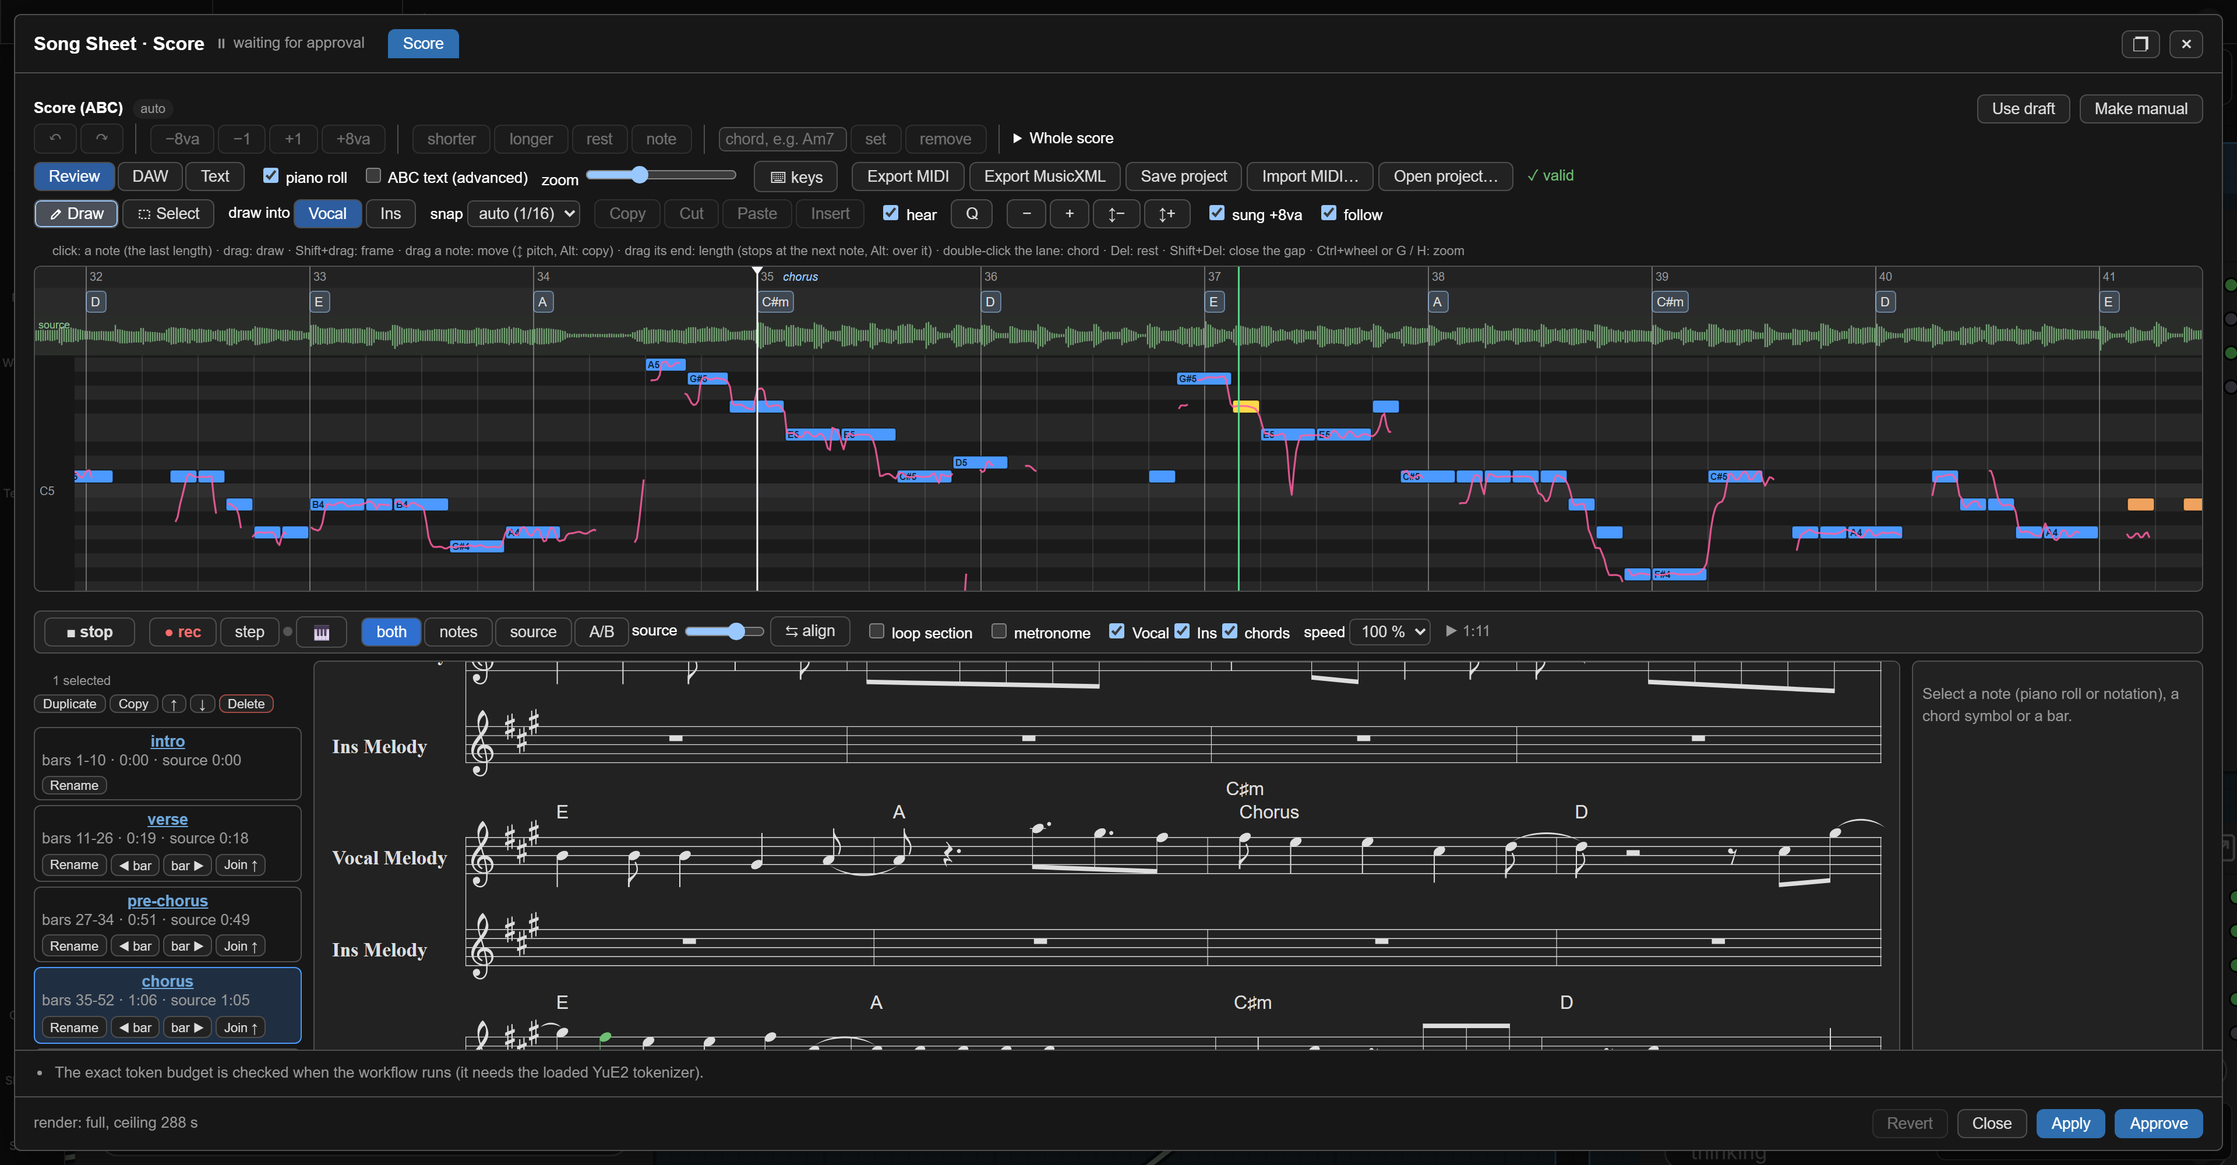
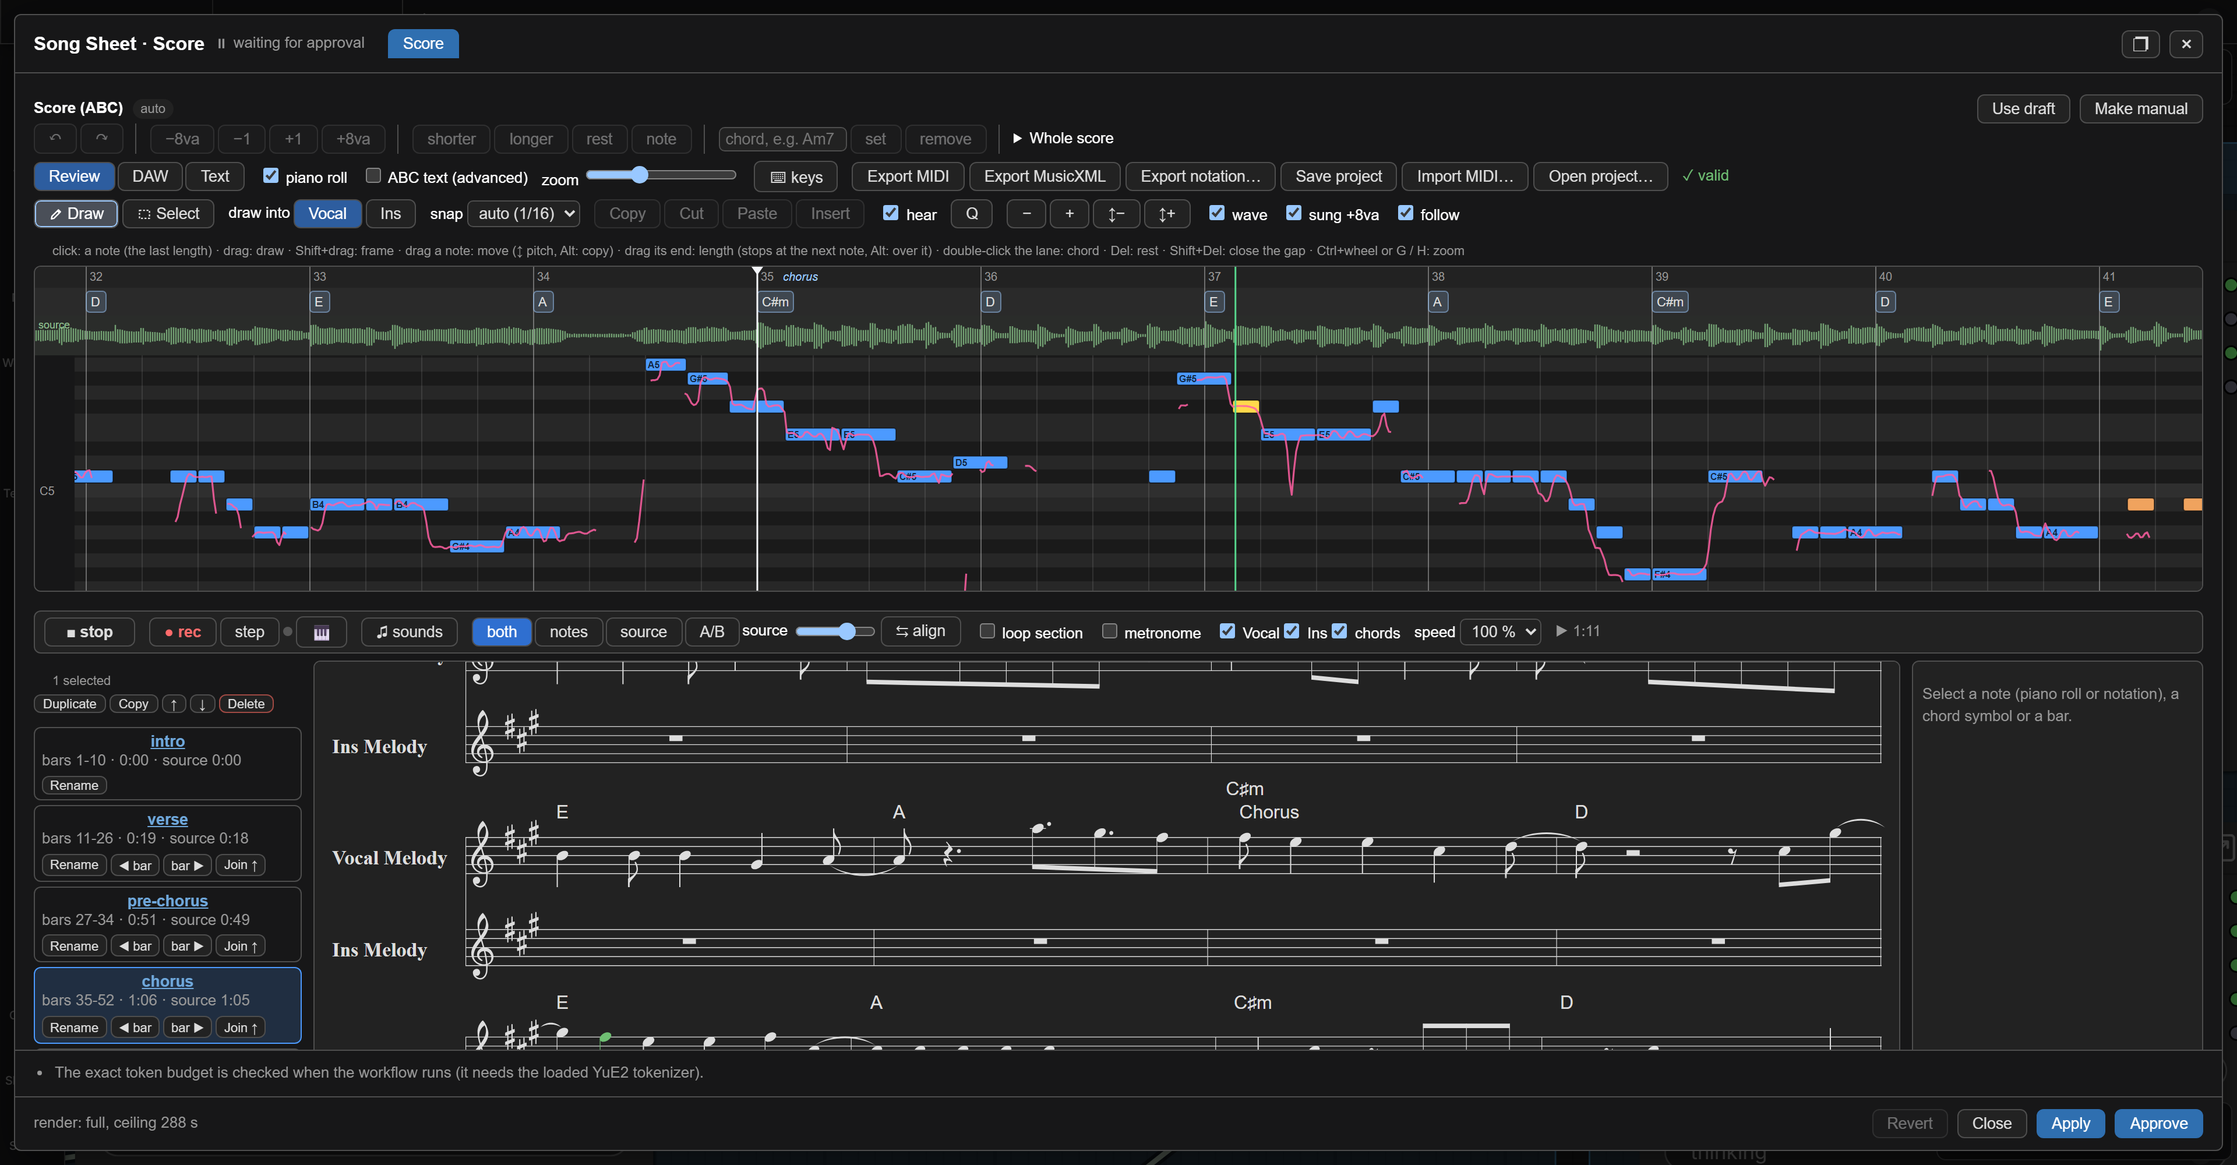
Release 0.4.4
- Version 0.4.4 (pyproject, plenio, frontend; web/ built with it);
  CHANGELOG: the Unreleased entries as 0.4.4 - the score editor as a
  small DAW: the source recording under the notes, Sung Pitch, MIDI
  recording, sounds per track and presets, the notation as PDF/PNG/SVG,
  settings in the project file, the octave-slip warning, the tutorials;
  CURRENT_STATUS row.
- README: new score editor screenshots (DAW layout with the tracks'
  sounds, the sounds and presets, a page of the notation's PDF, a cover
  with waveform and sung pitch, a MIDI recording); the feature list names
  recording, sounds, presets and the export.

Changed region(s): [[0.1562, 0.527, 0.6875, 0.558], [0.5312, 0.124, 0.7188, 0.186]]

diff --git a/web/js/plenio.js b/web/js/plenio.js
@@ -1,6 +1,6 @@
 import "../../../scripts/api.js";
 import "../../../scripts/app.js";
-import { E as p } from "./chunks/main-BrzPbRxM.mjs";
+import { E as p } from "./chunks/main-C9slfJQu.mjs";
 export {
   p as EXTENSION_NAME
 };

diff --git a/plenio/__init__.py b/plenio/__init__.py
@@ -6,4 +6,4 @@ use relative imports only, because ComfyUI imports the custom node folder under
 a path-derived module name.
 """
 
-__version__ = "0.4.3"
+__version__ = "0.4.4"

diff --git a/README.md b/README.md
@@ -72,7 +72,7 @@ Plenio is a rewrite from scratch, not a new version of the toolkit. It keeps wha
 - **One template per music model.** *YuE2 · Song*, *YuE2 · Cover* and *MiniMax · Song* each show only the controls that apply to them. There is no model switch that half the nodes ignore.
 - **Two ways to work, chosen first in the brief.** *New song every run* turns one brief into a whole series: set the number of runs, press Run once, and every run writes and renders a different song. *One song, stop to review* is for the song you want to get right: the run stops at the Song Sheets so you can check and edit the text and the score before anything is rendered, and every later run is a new take of the approved song.
 - **The Song Sheet: what you see is what the model gets.** Every document that conditions the music (title, style or caption, lyrics, score) passes through one sheet. Each document is *automatic*, *edited* or *manual*. Manual text is never replaced. If the draft changes under an edit, the run stops and asks instead of guessing. When a sheet stops for review, nothing is rendered until you approve exactly what you saw.
-- **A real score editor.** YuE2's score is ABC notation, and the Song Sheet opens it as notation, as a **piano roll** and as ABC text, with playback. Draw, move and resize notes, set **chord symbols** in the chord lane, work through the **bar inspector** (bars, meter, key changes), and export or import **MIDI**. Every edit is checked by the same parser the model uses; a malformed text is refused with a reason and can be reverted.
+- **A real score editor.** YuE2's score is ABC notation, and the Song Sheet opens it as notation, as a **piano roll** and as ABC text, with playback. Draw, move and resize notes, set **chord symbols** in the chord lane, work through the **bar inspector** (bars, meter, key changes), and export or import **MIDI**. Play a melody in with a **MIDI keyboard** (record with count-in, or step input), hear every track in a **sound** of its own, set them with **presets** for the kind of song, and export the sheet music as **PDF, PNG or SVG**. Every edit is checked by the same parser the model uses; a malformed text is refused with a reason and can be reverted.
 - **Arrange like in a DAW** (0.4.0; single bars since 0.4.2). Copy, move and delete whole sections in the section list, as on Cubase's arranger track - or single bars in the bar strip under it. A **cursor** in the ruler sets where playback and paste start, and **Ctrl+V** / **Ctrl+Shift+V** paste at it, overwriting or inserting time. The Guide track, the lyrics and, in covers, the original words and the source recording's times follow every arrangement. The **lyrics** stand over the notes they are sung on and are edited right there - since 0.4.3 their lines are also moved, made longer or shorter, copied and pasted like notes, and chord symbols move by semitones with the notes. The sheet music goes out as **MusicXML**, and a **project file** keeps the score, the Guide notes and the lyrics to go on later.
 - **Or write the score yourself.** **5 · YuE2 · DAW** is the song template for composing: an all-rest score is built from the brief, you draw the melody and the chords - play them in with a **MIDI keyboard** or bring a sketch from your DAW with **Import MIDI…** - and YuE2 renders exactly what you approved. The **Guide** track plays with the sheet but is never sent to the model.
 - **Covers from the actual music.** SheetSage2 reads the score out of your recording and keeps its beat grid. faster-whisper transcribes the sung words and places them into the score's sections. You choose *instrumental*, *original lyrics* or *new lyrics* (written to the phrasing of the original), and whether the harmony stays. In the score editor the source recording plays under the notes, bar by bar, and the **sung pitch** is drawn over them, so you hear and see where the transcription is off.
@@ -150,18 +150,25 @@ Open a Song Sheet and choose the score tab. The **piano roll** draws, moves and 
 Since 0.4.0 the editor also arranges. Select sections in the list and duplicate (Ctrl+D), copy, move (Ctrl+↑/↓ or drag; Alt copies) or delete them - and single bars the same way in the bar strip under the sections. Click in the ruler to set the **cursor**: playback starts there, and **Ctrl+V** pastes the clipboard there, overwriting the notes of its voices, while **Ctrl+Shift+V** inserts it and moves what follows. When the song has lyrics, a **lyrics lane** shows every line over the phrase it is sung on: a double-click edits it, and lines are selected, moved, made longer or shorter, deleted, copied and pasted like notes; the notation shows the syllables under the notes. **Export MusicXML** hands the sheet music to MuseScore, Sibelius, Dorico or Cubase, **Export notation…** gives it as PDF, PNG or SVG, **♫ sounds** plays each track in its own sound (piano, strings, pad, voice ... - with presets by kind of song, and your own), and **Save project / Open project…** keeps the score, the Guide notes, the lyrics and these settings in one file. See the [score editor guide](docs/user/concepts/score-editor.md).
 
 <p align="center">
-  <img src="assets/branding/0.4.2/Screenshot%20Score-Editor.png" alt="The Song Sheet's score tab in the DAW layout, playing: an imported sketch in the piano roll with the lyrics lane over the notes, the transport right under the roll, the notation with the syllables, and two bars selected in the bar strip" width="100%" />
+  <img src="assets/branding/0.4.4/Screenshot%20Score-Editor.png" alt="The Song Sheet's score tab in the DAW layout, playing the chorus of an imported sketch: the chord and lyrics lanes over the piano roll, the transport with play, rec, step, the MIDI keyboard and the sounds, the notation with the syllables, and the four tracks with their sounds on the left" width="100%" />
 </p>
 
-*The score tab of a Song Sheet in the DAW layout, playing a sketch brought in with Import MIDI: the lyrics lane over the piano roll (each line over its phrase, each syllable over its note), the chord lane, the **transport** right under the roll, the notation with the syllables under the notes, the files (MIDI, MusicXML, project) - and on the left the sections and the **bar strip** with two bars selected, ready to be duplicated, copied, moved or deleted.*
+*The score tab of a Song Sheet in the DAW layout, playing the chorus of a sketch brought in with Import MIDI: the chord lane and the lyrics lane over the piano roll (each line over its phrase, each syllable over its note), the **transport** right under the roll (play, ● rec and step input with a MIDI keyboard, ♫ sounds, loop, metronome, the voices, speed), the notation with the syllables under the notes, the files (MIDI, MusicXML, the notation as PDF or picture, the project) - and on the left the four **tracks**, each with its sound.*
 
-For a **cover** the source recording is a track of its own, like an audio track under the MIDI in a DAW: its **waveform** runs under the chord and lyrics lanes, **hear: both** plays the notes and the recording together on the transcription's beat grid (**A/B** switches at once), **⇆ align** moves the recording when the beat detection was off, and the new **Sung Pitch** node draws the sung melody as a curve over the notes - so a wrong pitch, an octave off or a missed note shows at a glance. Quantize (Q), vertical zoom and a *follow* switch round off the roll; **⌨ keys** lists every key and gesture.
+Every track plays in a sound of its own - piano, electric piano, strings, pad, organ, flute, a sung “ah”, pluck, synth lead, bass, mallets - synthesized in the browser, so nothing is downloaded. **Presets** set the sounds and the basic settings for a kind of song (pop, ballad, rock, electronic, acoustic, jazz, orchestral) or a way of working (composing with a MIDI keyboard, checking a cover's transcription, a free cover arrangement); **save current as preset…** keeps your own in ComfyUI, for every song. **Export notation…** gives the sheet music as a PDF on A4 or Letter pages, as a PNG or SVG picture, or prints it.
+
+| | |
+|:---:|:---:|
+| <img src="assets/branding/0.4.4/Screenshot%20Sounds.png" alt="The sounds panel over the transport: the preset Pop chosen, and Vocal in Voice ah, Instrument in Pluck, Chords in Pad and Guide in Bass, each with a play button to hear it" width="100%" /> | <img src="assets/branding/0.4.4/Screenshot%20Notation-PDF.png" alt="Page 1 of the notation exported as PDF: the title Open Window, the tempo, chord symbols and sections over the Vocal and Ins staves, the lyrics under the Vocal notes, and the page number 1 / 2" width="62%" /> |
+| *♫ sounds: a preset for the kind of song, a sound per track, ▶ to hear it* | *Export notation… → PDF: the first page of the sketch's sheet music* |
+
+For a **cover** the source recording is a track of its own, like an audio track under the MIDI in a DAW: its **waveform** runs under the chord and lyrics lanes, **hear: both** plays the notes and the recording together on the transcription's beat grid (**A/B** switches at once), **⇆ align** moves the recording when the beat detection was off, and the **Sung Pitch** node draws the sung melody as a curve over the notes - so a wrong pitch, an octave off or a missed note shows at a glance. Quantize (Q), vertical zoom and a *follow* switch round off the roll; **⌨ keys** lists every key and gesture.
 
 <p align="center">
   <img src="assets/branding/0.4.4/Screenshot%20Cover-Score-Editor.png" alt="The score editor of a cover, playing the chorus: the source's waveform in a lane over the piano roll, the sung pitch as a pink curve over the transcribed vocal notes, and the transport with hear both, notes, source, A/B and align" width="100%" />
 </p>
 
-*A cover's chorus playing in Song Sheet · Score: the source recording's waveform over the roll, the sung pitch (pink) over the transcribed notes - here an octave lower in the singing, so the curve is drawn in the notes' octave (*sung +8va*) - and the transport with **hear: both**, **A/B** and **⇆ align**.*
+*A cover's chorus playing in Song Sheet · Score: the source recording's waveform over the roll, the sung pitch (pink) over the transcribed notes - here an octave lower in the singing, so the curve is drawn in the notes' octave (*sung +8va*) - and the transport with **hear: both**, **A/B** and **⇆ align**. *wave* and *sung* in the roll's toolbar hide both for a cover that goes far from the original.*
 
 ### Compose a song yourself (YuE2 · DAW)
 

diff --git a/docs/design/CURRENT_STATUS.md b/docs/design/CURRENT_STATUS.md
@@ -3,7 +3,7 @@
 | | |
 |---|---|
 | Date | 2026-09-29 (phase checkpoint); releases since: see the next row |
-| Since 0.3.0 | **0.3.1** (2026-10-01, `79c453b`..`93aea8c`): instrumental songs keep their length and get a planner-only song form; study E6 measured it on the GPU (`09b255d`, [report](../test-reports/2026-10-01-e6.md)). **0.4.0** (2026-10-02, `e9907b1`..release commit): the score editor as an arranging tool - sections copied/moved/deleted, cursor, clipboard at the cursor, the Guide track, the text sheet's lyrics and a cover's original words follow; lyrics shown and edited where they are sung; MusicXML export; project file ([score-arrange-design.md](score-arrange-design.md)). **0.4.1** (2026-10-02, after `c8411da`): narrated video tutorials for all six templates and a promo (`tools/tutorials`: narration, OmniVoice voice-over, a folder per video), and fixes found while recording them - Stems with beartype installed, the lyrics after Import MIDI / Open project, System Check tables, the approved node's summary. **0.4.2** (2026-10-02, after `68eefbb`): single bars arranged in the bar strip (duplicate, copy, move, delete; the Guide track and the lyrics follow), the transport between the roll and the notation; the tutorials 1, 2 and 5 recorded again with both (the published videos stay). **0.4.3** (2026-10-03, after `9e4db4b`): lyrics lines placed by hand in the roll's lyrics lane (spans kept as `plenio_lyric_spans`, the backend layout places pinned sections by them), chord symbols transposed with the notes, the cover template's defaults and its *Use template choices*; tutorials 1 and 2 with five lines voiced again (the published videos stay) |
+| Since 0.3.0 | **0.3.1** (2026-10-01, `79c453b`..`93aea8c`): instrumental songs keep their length and get a planner-only song form; study E6 measured it on the GPU (`09b255d`, [report](../test-reports/2026-10-01-e6.md)). **0.4.0** (2026-10-02, `e9907b1`..release commit): the score editor as an arranging tool - sections copied/moved/deleted, cursor, clipboard at the cursor, the Guide track, the text sheet's lyrics and a cover's original words follow; lyrics shown and edited where they are sung; MusicXML export; project file ([score-arrange-design.md](score-arrange-design.md)). **0.4.1** (2026-10-02, after `c8411da`): narrated video tutorials for all six templates and a promo (`tools/tutorials`: narration, OmniVoice voice-over, a folder per video), and fixes found while recording them - Stems with beartype installed, the lyrics after Import MIDI / Open project, System Check tables, the approved node's summary. **0.4.2** (2026-10-02, after `68eefbb`): single bars arranged in the bar strip (duplicate, copy, move, delete; the Guide track and the lyrics follow), the transport between the roll and the notation; the tutorials 1, 2 and 5 recorded again with both (the published videos stay). **0.4.3** (2026-10-03, after `9e4db4b`): lyrics lines placed by hand in the roll's lyrics lane (spans kept as `plenio_lyric_spans`, the backend layout places pinned sections by them), chord symbols transposed with the notes, the cover template's defaults and its *Use template choices*; tutorials 1 and 2 with five lines voiced again (the published videos stay). **0.4.4** (2026-10-03, after `e25a8cf`): the score editor as a small DAW - the source recording as a track under the notes (waveform, *hear*, A/B, ⇆ align), the node **Sung Pitch** (19 nodes), DAW habits in the roll (quantize, zoom, follow, Alt-copy, keys list), recording with a MIDI keyboard (rec with count-in, step input), synthesized sounds per track with presets in ComfyUI's user data, the notation as PDF/PNG/SVG, settings in the project file, the octave-slip warning ([score-editor-sounds-export.md](score-editor-sounds-export.md)); tutorials 1, 2 and 5 recorded again with a tour of the editor (the published videos need a new upload) |
 | Written for | **Phase 11C**: the milestones M1-M7 of the next-release plan - **all done**, reviewed (2026-09-29) and 0.3.0 is prepared for release; next: the owner's L1-L4 verdicts, then the release (tag, Registry publish) |
 | Overall phase | **Phase 11A (design), Phase 11B (critical implementation, O1-O7) and M1-M7 done** (score editor, YuE2 · DAW, brief templates + manual lyrics, EQ UX, Refine + UniverSR, Stems + BS-RoFormer, docs + version 0.3.0); L1/L2 ran with the real weights (numbers below), the listening verdicts are open; 0.2.2 is the released baseline; the Phase 10 owner-machine checks (§8.3) are still open |
 | Sub-phase | - (hard stop after Phase 11B) |

diff --git a/CHANGELOG.md b/CHANGELOG.md
@@ -2,7 +2,9 @@
 
 All notable changes are listed here. Versions follow semantic versioning; published Registry versions are immutable.
 
-## Unreleased
+## 0.4.4 - 2026-10-03
+
+The score editor plays like a small DAW: record a melody with a MIDI keyboard, hear every track in a sound of its own, export the sheet music as PDF - and for covers, the original recording and the sung pitch right under the notes.
 
 ### Added
 
@@ -21,10 +23,11 @@ All notable changes are listed here. Versions follow semantic versioning; publis
 - **Presets** of the basic settings: built in by kind of song (Pop, Ballad, Rock, Electronic, Acoustic, Jazz, Orchestral ...) and way of working (*Composing with a MIDI keyboard*, *Cover: check the transcription*, *Cover: free arrangement*); **save current as preset…** keeps your own in ComfyUI's user data (`plenio/score-editor-presets.json`), so they are there in every browser.
 - **wave** in the roll's toolbar (covers): the source's waveform lane can be hidden, like the sung pitch - for covers far from the original.
 - The sheet warns about an **octave slip** in the vocal melody (below E2 or above C7 as written) - a MIDI keyboard played an octave off; the text stays valid ABC.
-- README: screenshots of a cover's score editor (waveform, sung pitch, *hear: both*) and of a MIDI recording.
+- README: new screenshots of the score editor - the DAW layout with the tracks' sounds, the sounds and presets, a page of the notation's PDF, a cover with its waveform and sung pitch, and a MIDI recording.
 
 ### Changed
 
+- **Tutorials 1, 2 and 5**: the score editor part recorded again - a tour of every area first, then the details: notes, playback, the tracks' sounds and presets, arranging, recording with a MIDI keyboard, the files with the notation's PDF, and for a cover the original under the notes, its sung pitch, *wave* and *align*. The promo follows.
 - **Esc** in the score lets the selection go and no longer closes the editor (it closes it from outside the score, as before).
 - **Space** plays and stops also right after a click on a transport button or checkbox (it toggled the checkbox instead); only text fields keep it.
 - The transport's **▶ play** replaces *▶ notes* and *▶ source*; with a source, *hear* chooses what plays.
